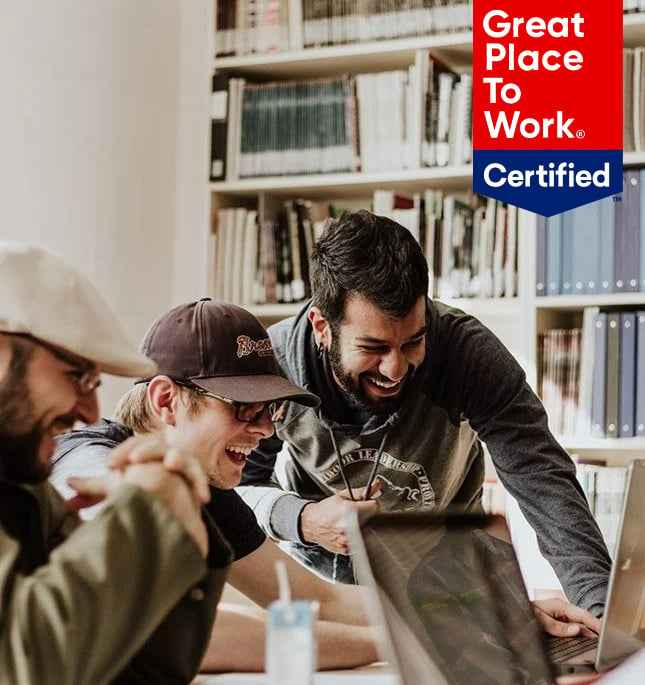
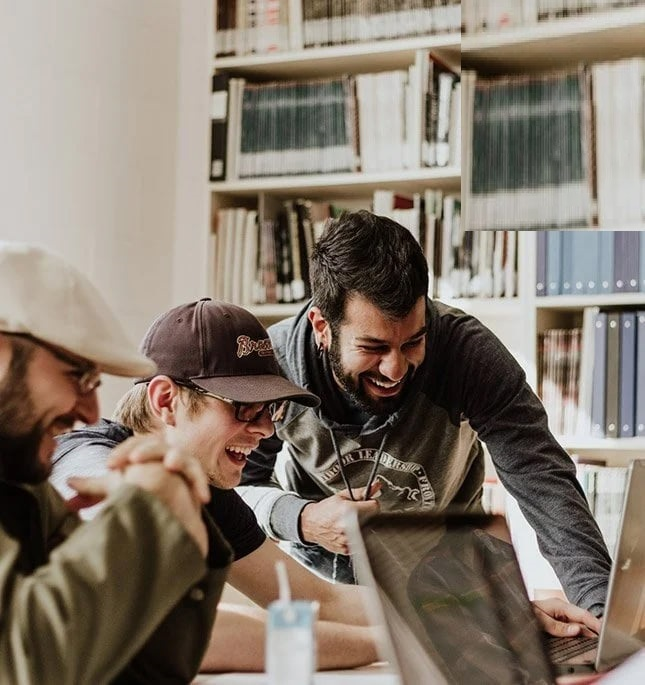
commit

Changed region(s): [[0.7132, 0.0, 1.0, 0.3372]]

diff --git a/theme/kasinfotech/views/about-us.php b/theme/kasinfotech/views/about-us.php
@@ -286,7 +286,7 @@
                                                 <div class="col-lg-4 offset-lg-1 col-md-8">
                                                     <h4 class="h3 slider-title font-semibold">Top 1% IT Talent</h4>
                                                     <p class="text-lg text-secondary">
-                                                        KAS Pvt LtdTechnology is an exclusive hub of top dedicated software developers, UI/UX designers, QA experts, and product managers with incredibly rare and hidden talents you will ever
+                                                        KAS Pvt Ltd Technology is an exclusive hub of top dedicated software developers, UI/UX designers, QA experts, and product managers with incredibly rare and hidden talents you will ever
                                                         come across. We let you access the top 1% of IT talent worldwide, from independent software developers to fully managed teams.
                                                     </p>
                                                 </div>
@@ -304,7 +304,7 @@
                                                 <div class="col-lg-4 offset-lg-1 col-md-8">
                                                     <h4 class="h3 slider-title font-semibold">Time Zone Aligned</h4>
                                                     <p class="text-lg text-secondary">
-                                                        Timezone is never a constraint when you are working with KAS Pvt LtdTechnology. We follow a simple procedure- our developers and your time zone. Hire dedicated software developers from us
+                                                        Timezone is never a constraint when you are working with KAS Pvt Ltd Technology. We follow a simple procedure- our developers and your time zone. Hire dedicated software developers from us
                                                         and collaborate from far away to work according to your time zone, deadline, and milestone.
                                                     </p>
                                                 </div>

diff --git a/theme/kasinfotech/views/index.php b/theme/kasinfotech/views/index.php
@@ -229,9 +229,9 @@
                         <div class="carousel-inner">
                             <div class="carousel-item active">
                                 <picture>
-                                    <source srcset="<?php echo asset('images/gptw_1.webp'); ?>" type="image/webp">
-                                    <source srcset="<?php echo asset('images/gptw_1.webp'); ?>" type="image/jpeg">
-                                    <img data-src="<?php echo asset('images/gptw_1.webp'); ?>" src="<?php echo asset('images/gptw_1.webp'); ?>" alt="Great Place to Work" title="Great Place to Work" class="lazy d-block w-100">
+                                    <source srcset="<?php echo asset('images/gptw_1.png'); ?>" type="image/webp">
+                                    <source srcset="<?php echo asset('images/gptw_1.png'); ?>" type="image/jpeg">
+                                    <img data-src="<?php echo asset('images/gptw_1.png'); ?>" src="<?php echo asset('images/gptw_1.png'); ?>" alt="" title="" class="lazy d-block w-100">
                                 </picture>
                             </div>
                             <div class="carousel-item ">

diff --git a/theme/kasinfotech/views/menu.php b/theme/kasinfotech/views/menu.php
@@ -63,7 +63,7 @@
                                                         <picture>
                                                             <source srcset="<?php echo asset('images/gptw(5).png'); ?>" type="image/webp">
                                                             <source srcset="images/gptw(5).png" type="image/jpeg">
-                                                            <img data-src="<?php echo asset('images/header/xgptw.png,qv-3.pagespeed.ic._V8cEQRcAj.png')?>" src="<?php echo asset('images/xgptw.png%2Cqv-3.pagespeed.ic._V8cEQRcAj.png')?>" alt="KAS Pvt Ltd  Great Place to Work" title="KAS Pvt Ltd  Great Place to Work">
+                                                            <img data-src="<?php echo asset('images/header/xgptw.png,qv-3.pagespeed.ic._V8cEQRcAj.png')?>" src="<?php echo asset('images/xgptw.png%2Cqv-3.pagespeed.ic._V8cEQRcAj.png')?>" alt="KAS Pvt Ltd  " title="KAS Pvt Ltd  ">
                                                         </picture>
                                                     </div>
                                                 </a>

diff --git a/theme/kasinfotech/views/menu-bkp.php b/theme/kasinfotech/views/menu-bkp.php
@@ -174,7 +174,7 @@
                                                 </div>
                                                 <picture>
                                                     <source srcset="<?php echo asset('images/gptw.webp'); ?>" type="image/webp">
-                                                    <source srcset="images/gptw.png" type="image/jpeg"><img data-src="https://kasinfotech.com/main-boot-5/images/header/xgptw.png,qv-3.pagespeed.ic._V8cEQRcAj.png" src="images/xgptw.png%2Cqv-3.pagespeed.ic._V8cEQRcAj.png" alt="KAS Pvt Ltd  Great Place to Work" title="KAS Pvt Ltd  Great Place to Work">
+                                                    <source srcset="images/gptw.png" type="image/jpeg"><img data-src="https://kasinfotech.com/main-boot-5/images/header/xgptw.png,qv-3.pagespeed.ic._V8cEQRcAj.png" src="images/xgptw.png%2Cqv-3.pagespeed.ic._V8cEQRcAj.png" alt="KAS Pvt Ltd  " title="KAS Pvt Ltd  ">
                                                 </picture>
                                             </div>
                                         </a>

diff --git a/theme/kasinfotech/views/it-staff-augmentation-services.php b/theme/kasinfotech/views/it-staff-augmentation-services.php
@@ -85,7 +85,7 @@
                                     <source srcset="<?php echo base_url(); ?>main-boot-5/images/header/gptw.png?v-1" type="image/jpeg"><img data-src="<?php echo base_url(); ?>main-boot-5/images/header/xgptw.png,qv-1.pagespeed.ic.KH5pPBKleP.webp" src="<?php echo base_url(); ?>main-boot-5/images/header/xgptw.png,qv-1.pagespeed.ic.KH5pPBKleP.webp" alt="IT Staff Augmentation" title="IT Staff Augmentation" data-pagespeed-url-hash="3150800697" onload="pagespeed.CriticalImages.checkImageForCriticality(this);">
                                 </picture>
                             </h2>
-                            <span class=" text-primary small-heading-two ml-2" style="height: 48px;">Great Place to Work Certified</span>
+                            <span class=" text-primary small-heading-two ml-2" style="height: 48px;"> Certified</span>
                         </div>
                     </div>
                 </div>
